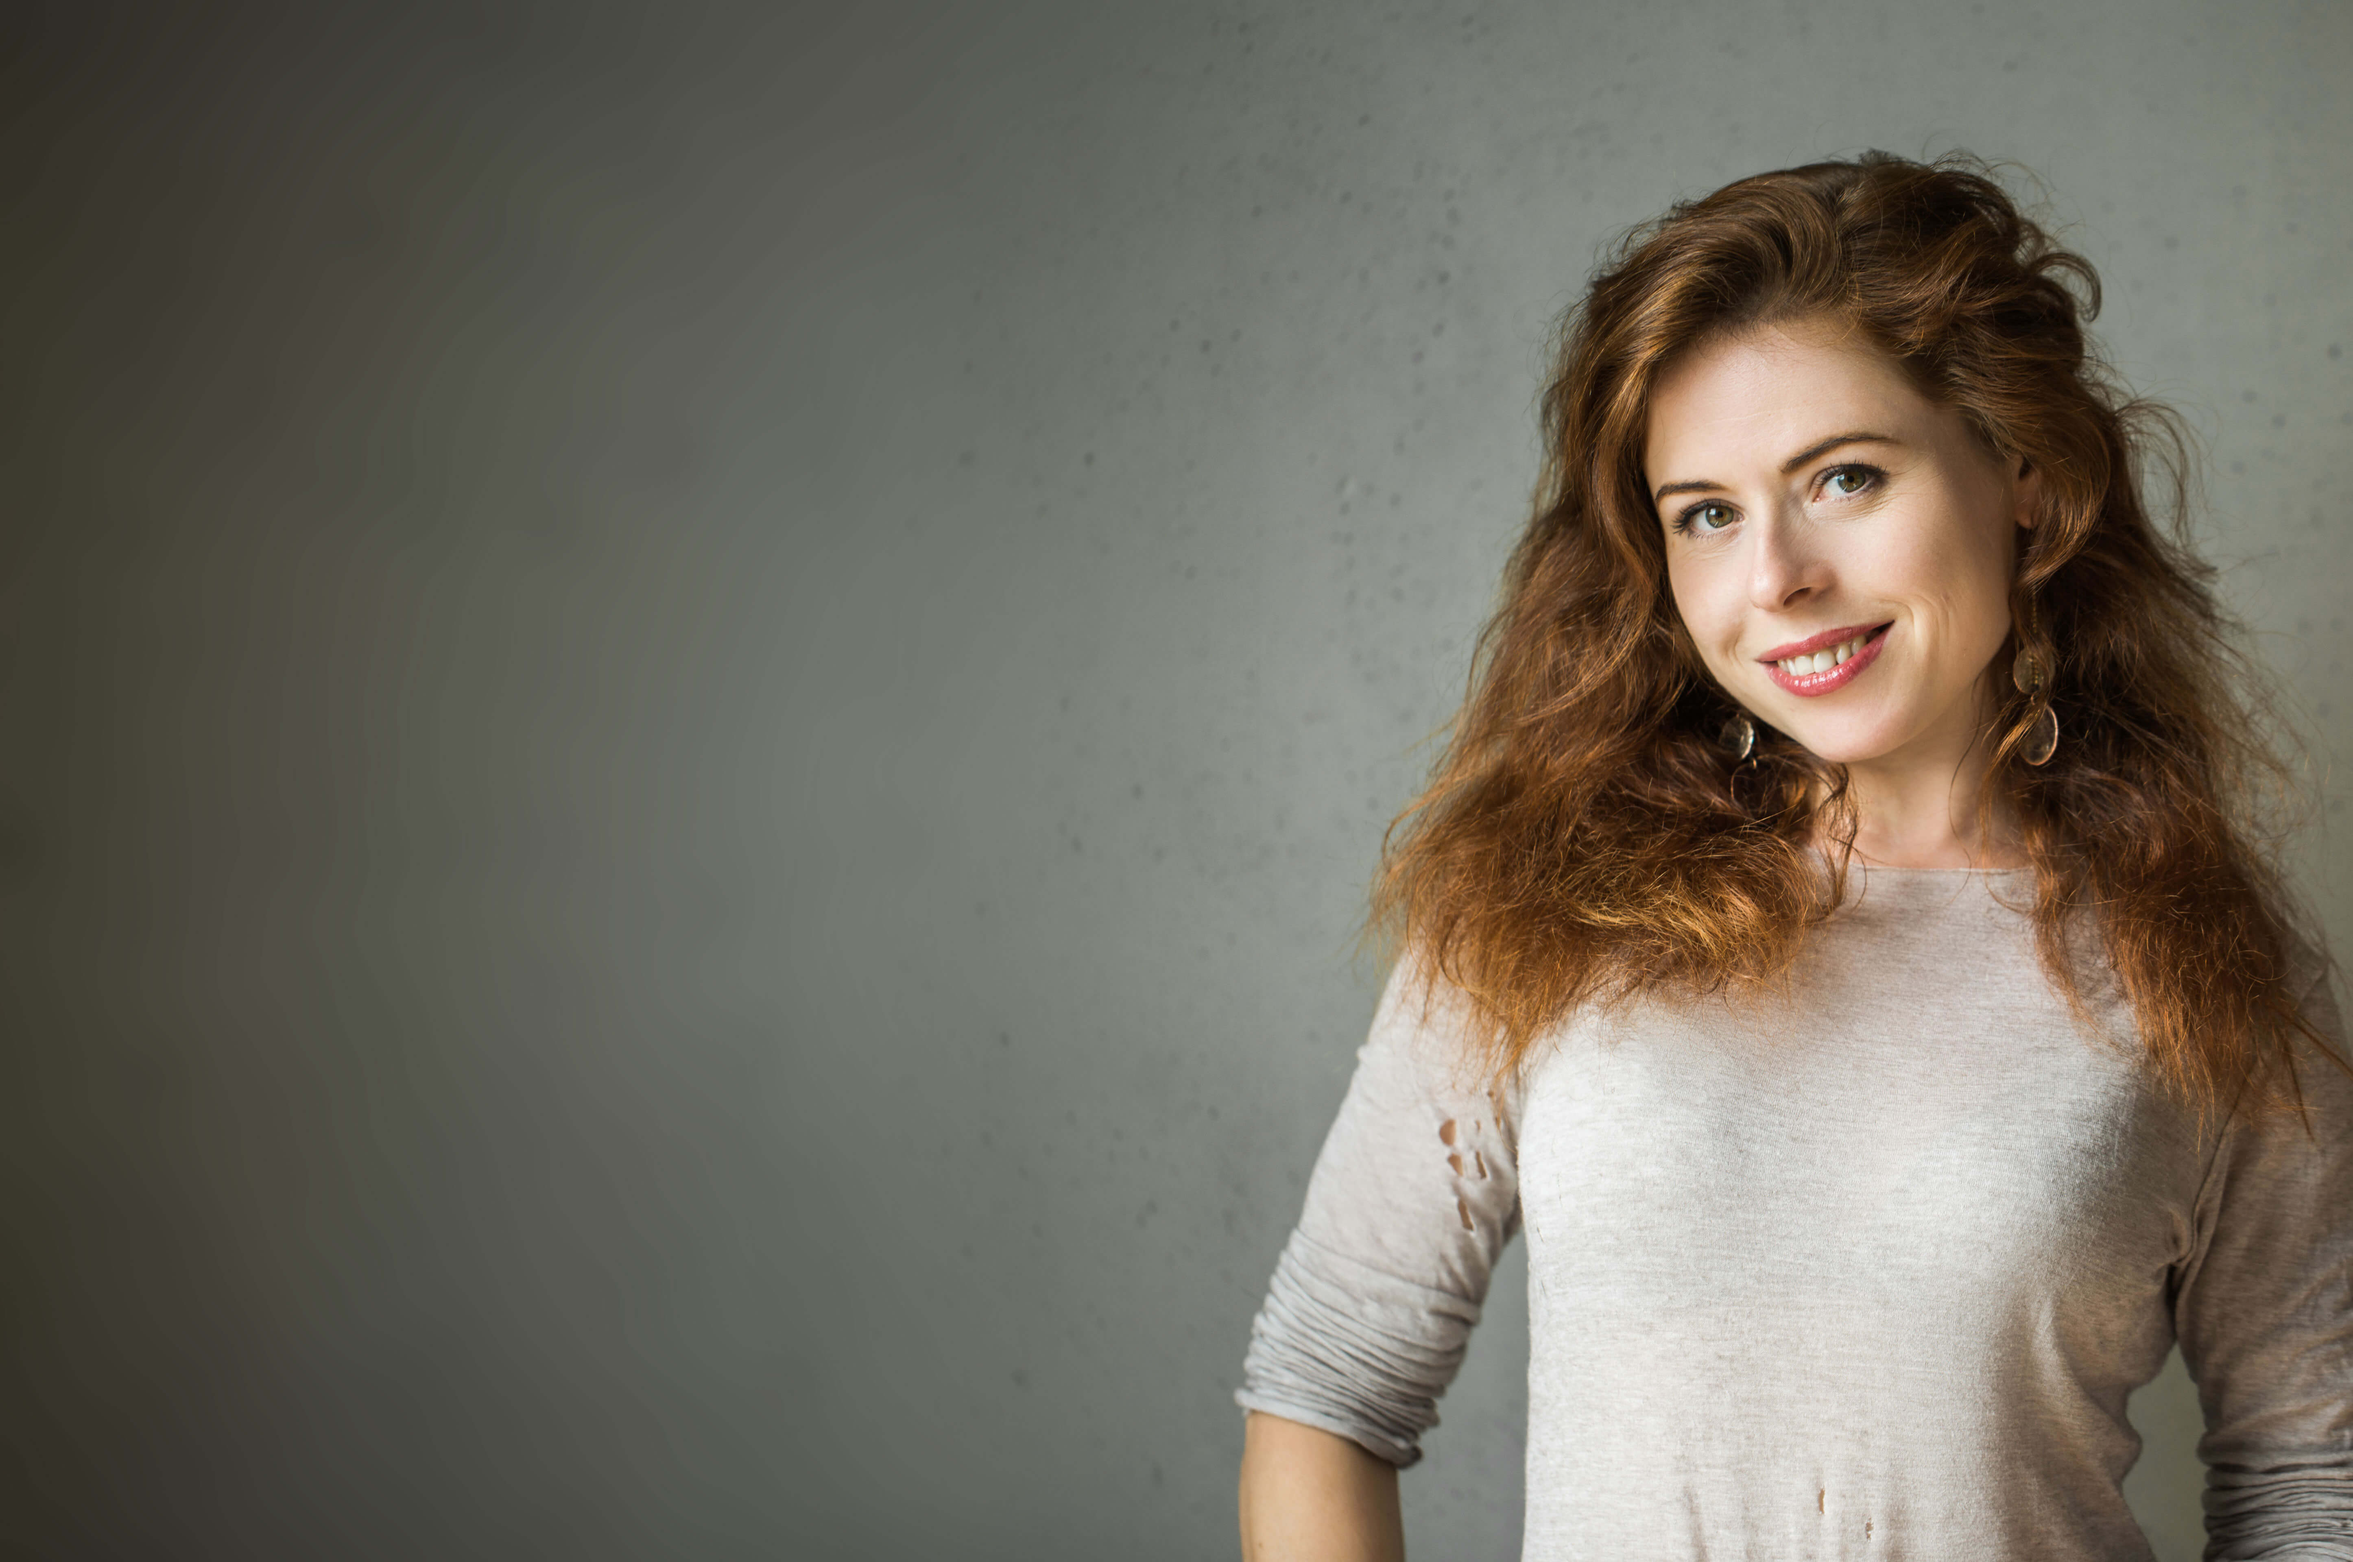
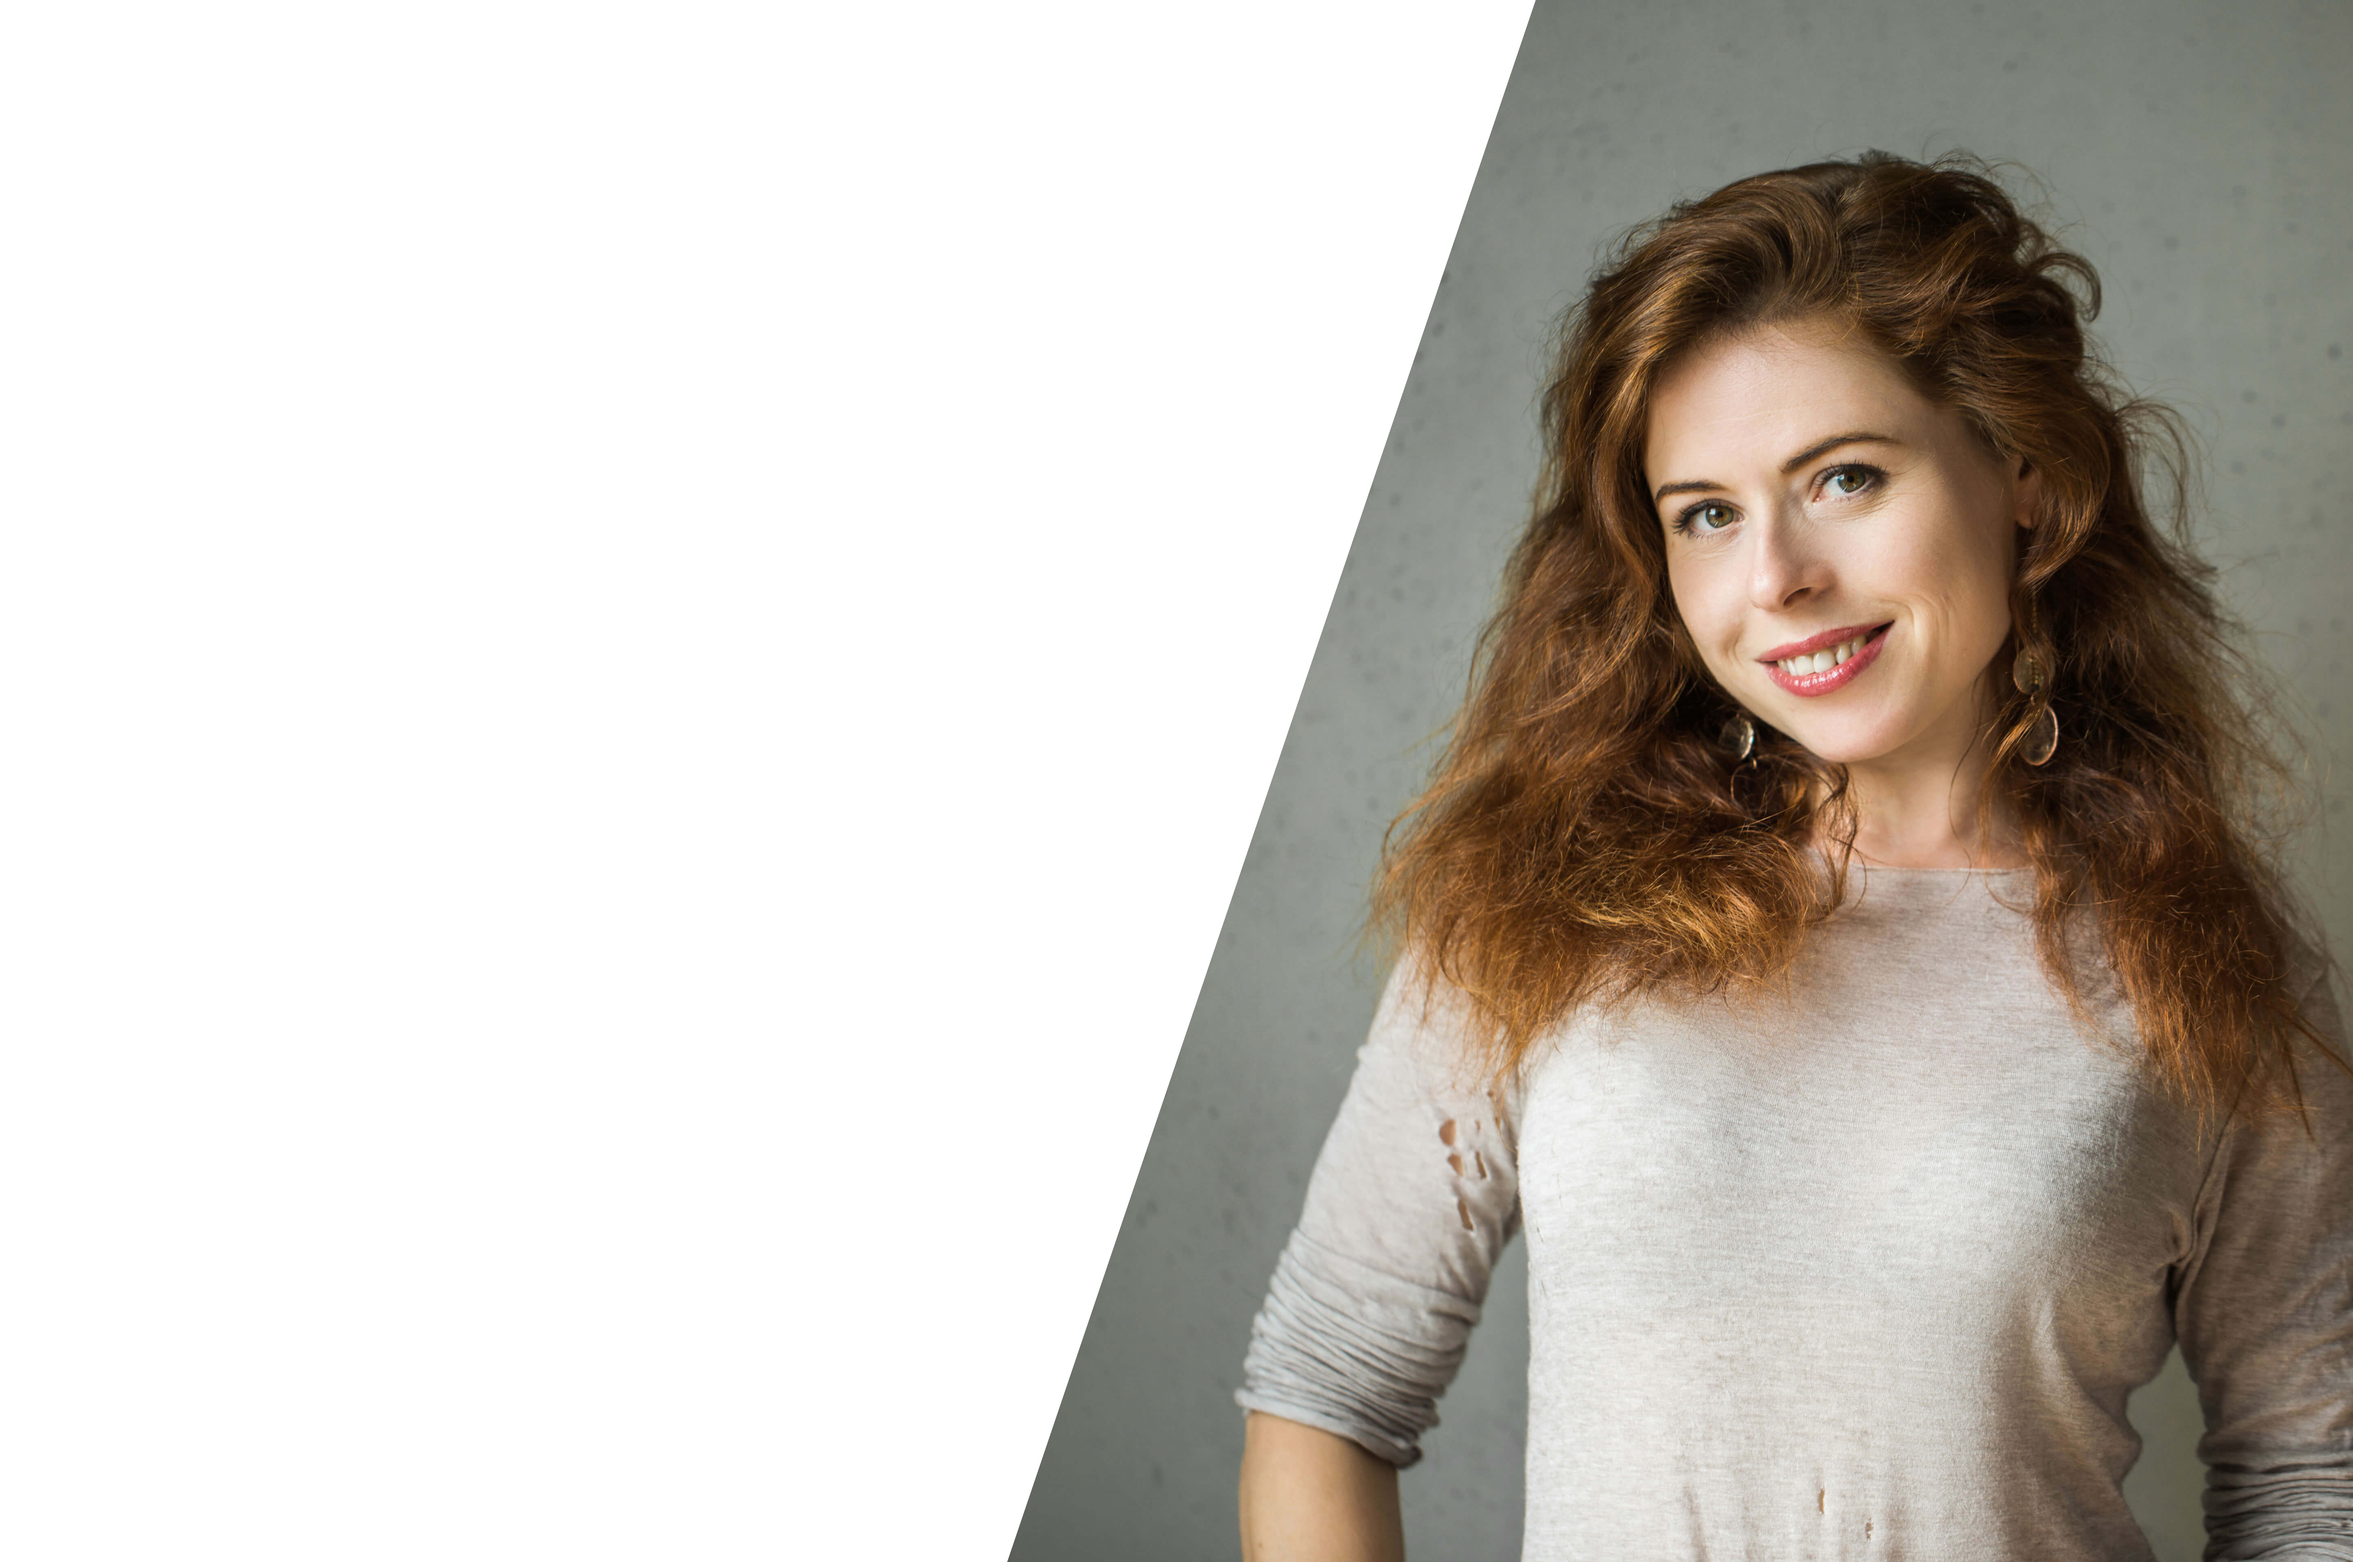
adjusted mobile view pic

diff --git a/css/base.css b/css/base.css
@@ -308,12 +308,6 @@ main {
 	height: 100vh;
 }
 
-.my_pic-container {
-	display: flex;
-	justify-content: flex-end;
-	margin-top: -50px;
-}
-
 .grid--thumbs {
 	display: none;
 }
@@ -569,6 +563,15 @@ main {
 display: none;
 }
 
+.my_pic-container {
+	background-size: contain;
+    background-repeat: no-repeat;
+    background-position-y: bottom;
+    margin-left: -90px;
+    margin-top: -130px;
+    height: 45vh;
+}
+
 @media screen and (min-width: 55em) {
 	.js main {
 		/* height: 100vh; */
@@ -619,6 +622,9 @@ display: none;
 		position: absolute;
 		background-size: cover;
 		z-index: -100;
+		background-repeat: no-repeat;
+		background-position-y: top;
+		margin-left: 0;
 	}
 
 	.menu-item {

diff --git a/index.html b/index.html
@@ -39,7 +39,7 @@
 				</div>
 			</div>
 		</div>
-		<div class="my_pic-container" style="background-image: url(img/Elena-pic-3.png)">
+		<div class="my_pic-container" style="background-image: url(img/Elena-pic-3.jpg)">
 			<!-- <img class="my-pic" src="img/Elena-pic-3.png"> -->
 		</div>
 	</section>
